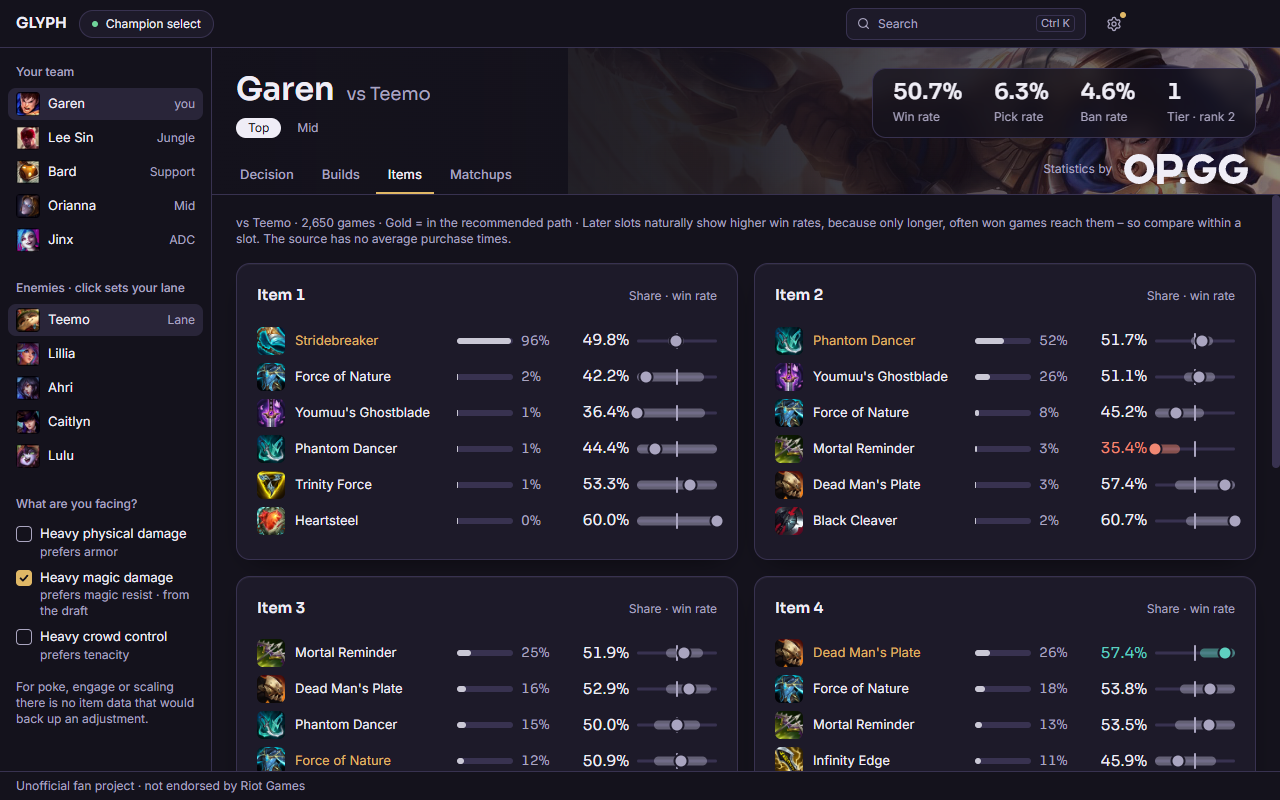
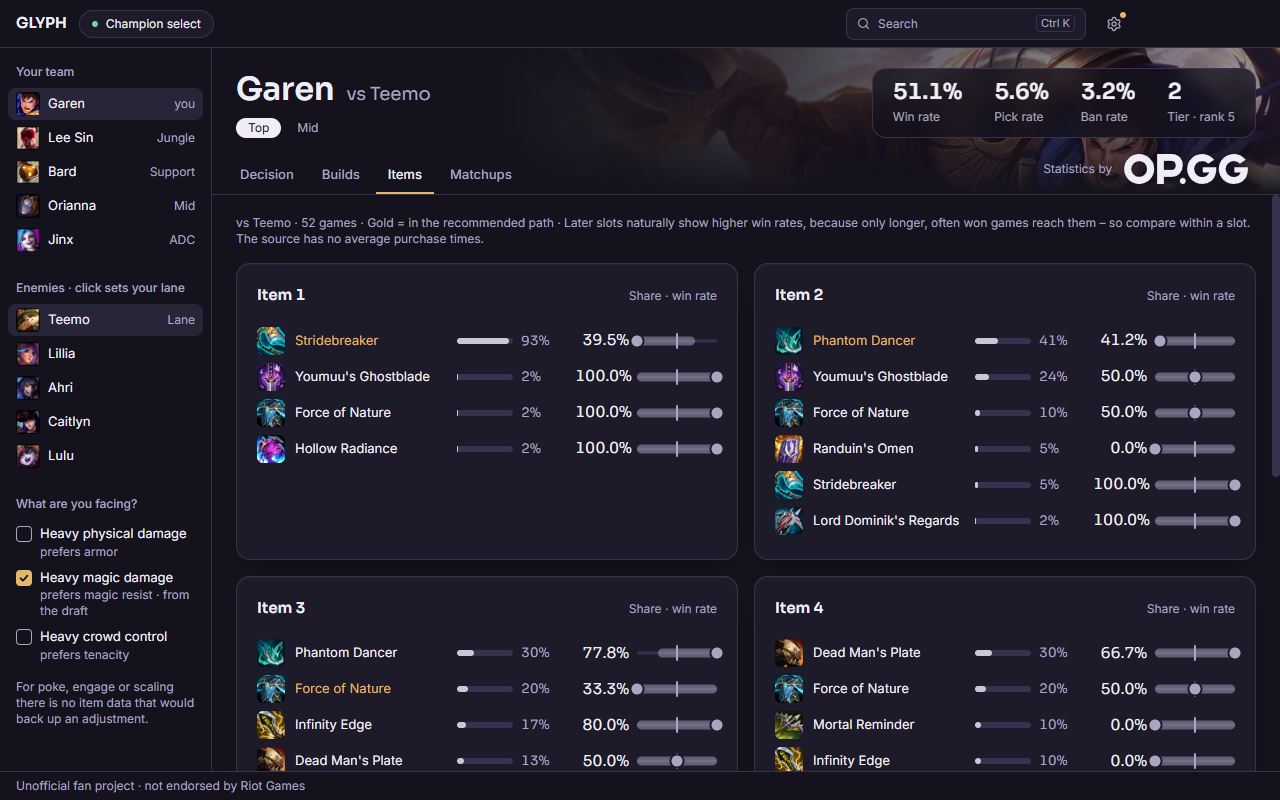
Fade the champion picture out instead of cutting it off

diff --git a/src/renderer/src/ChampionHeader.tsx b/src/renderer/src/ChampionHeader.tsx
@@ -5,6 +5,9 @@ import { OpggCredit } from './OpggCredit'
 import { Figure } from './ui'
 import { t } from '../../shared/i18n'
 
+const SPLASH_FADE =
+  'linear-gradient(to right, transparent 0%, black 55%), linear-gradient(to bottom, black 55%, transparent 100%)'
+
 export const TABS = [
   ['decision', t('Entscheidung')],
   ['builds', 'Builds'],
@@ -35,9 +38,11 @@ export function ChampionHeader({ champion, opponentName, roles, role, onRole, st
       <img
         src={splashUrl(champion.key)}
         alt=""
-        className="absolute inset-y-0 right-0 h-full w-2/3 object-cover object-[50%_18%] opacity-60"
+        className="absolute inset-y-0 right-0 h-full w-3/4 object-cover object-[50%_18%] opacity-60"
+        // Fades out to the left and towards the tabs, so the picture has no visible edge.
+        style={{ maskImage: SPLASH_FADE, maskComposite: 'intersect' }}
       />
-      <div className="absolute inset-0 bg-linear-to-r from-ink via-ink/85 to-ink/10" />
+      <div className="absolute inset-0 bg-linear-to-r from-ink via-ink/60 to-transparent" />
 
       <div className="relative flex items-end justify-between gap-6 px-6 pt-5 pb-3">
         <div>
